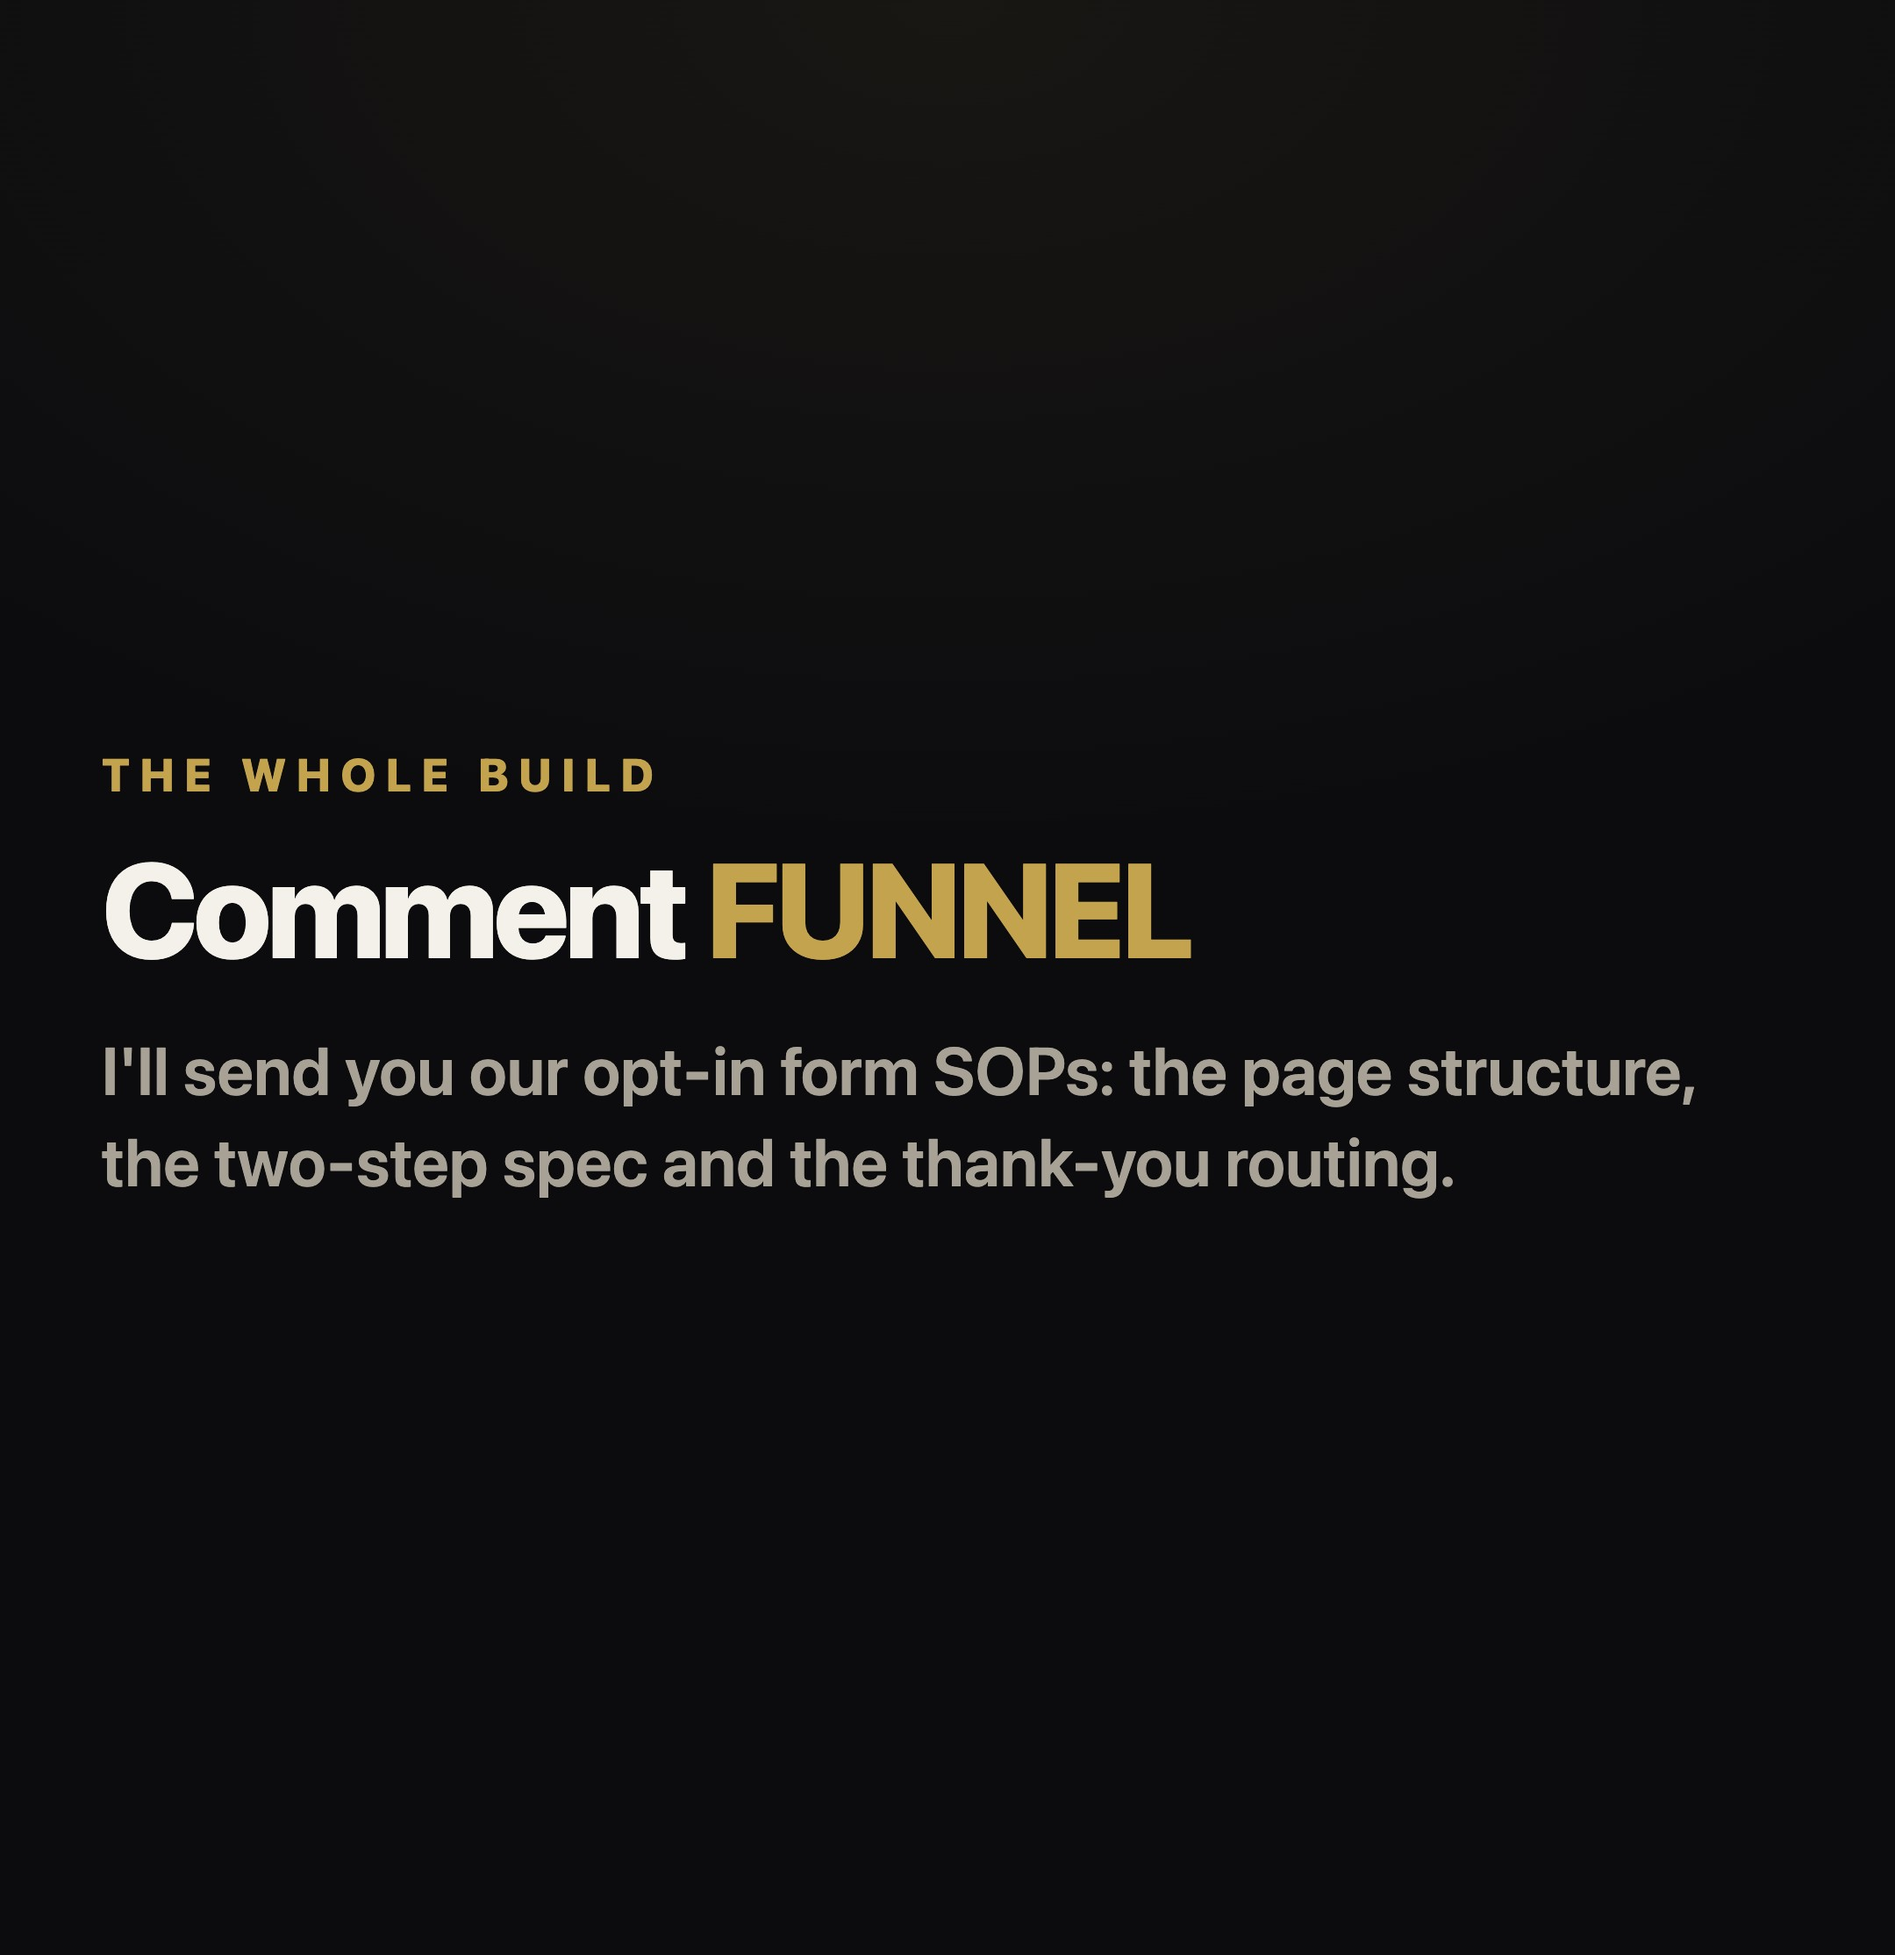
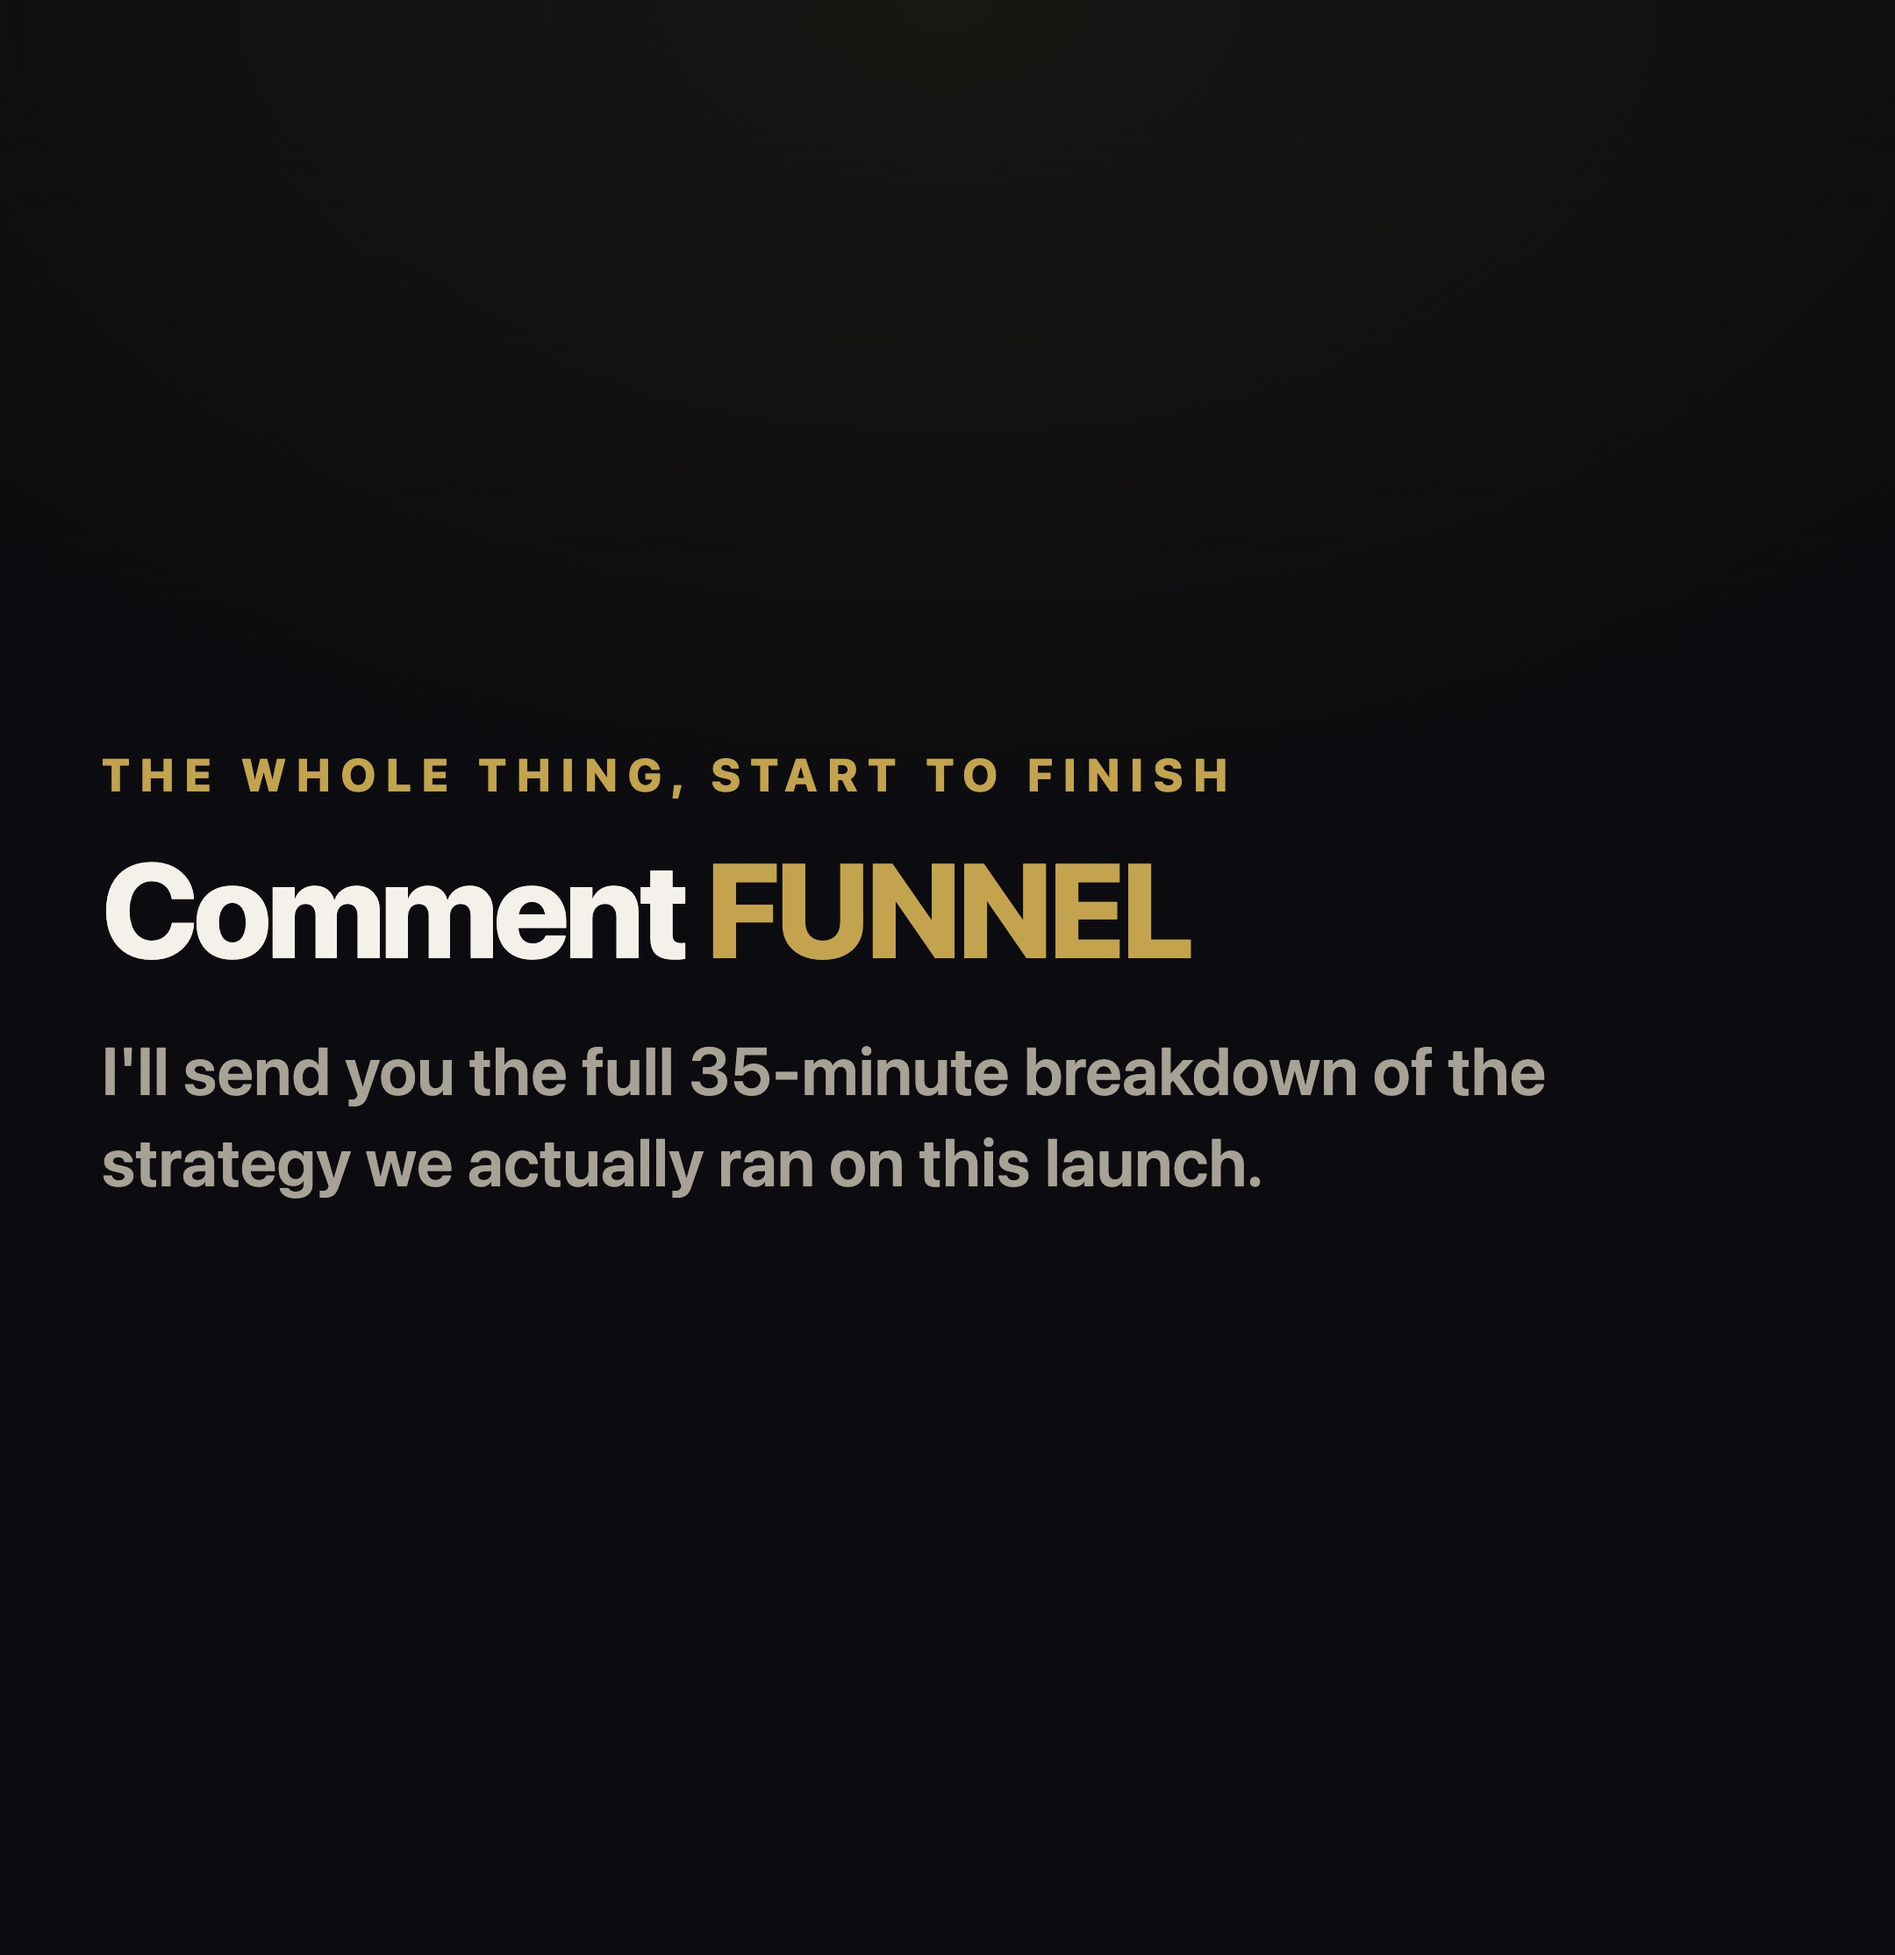
funnel board: CTA now offers the 35-min strategy breakdown, not the opt-in SOPs
The payoff for commenting FUNNEL is the long-form video we already made,
which is a far bigger reason to comment than a page-structure doc.

Claude-Session: https://claude.ai/code/session_01JyUvhGiU74myjNDStH3gj5

diff --git a/index.html b/index.html
@@ -192,7 +192,7 @@
         {img:'img/t5.jpg', s:"Step four, check the confirmation email."},
         {img:'img/g12.jpg', s:"And every one of those pages reports into here. A custom analytics page, live, built for the client."},
         {img:'img/g13.jpg', s:"Further down, the source and the exact ad behind every opt-in. What they answered on step two. Which creative brings the ten-grand-plus people, and which one brings the ones who cannot buy. And the opt-in rate on every page, so you can see which of the five is actually converting."},
-        {img:'img/g14.jpg', s:"Comment FUNNEL and I'll send you our opt-in form SOPs."}
+        {img:'img/g14.jpg', s:"Comment FUNNEL and I'll send you the full thirty five minute breakdown of the strategy we actually ran on this launch."}
       ]
     },
 
